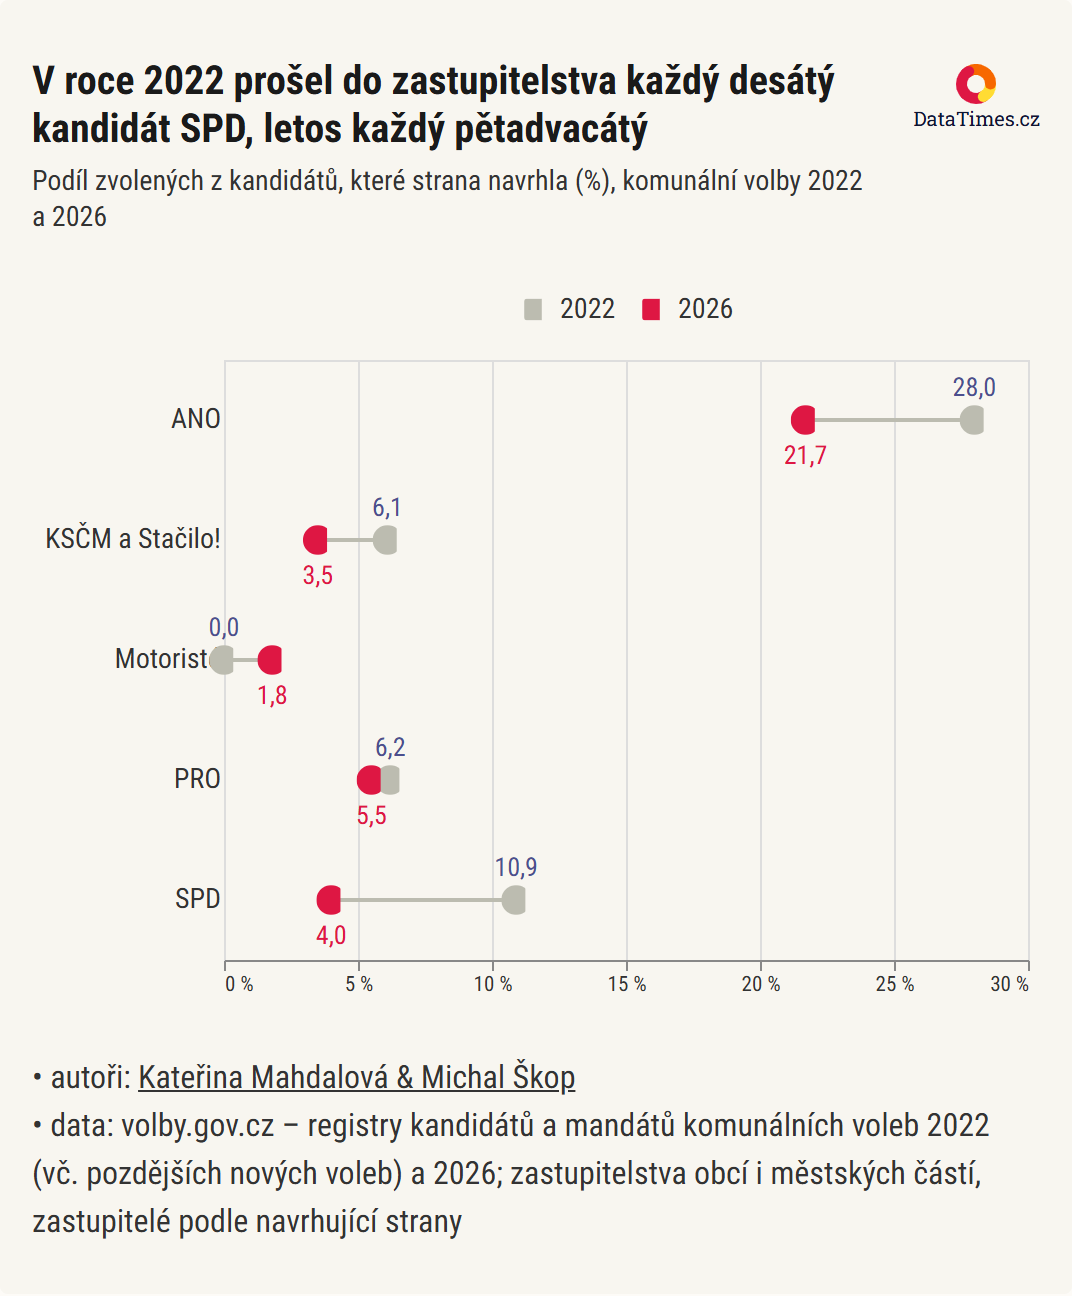
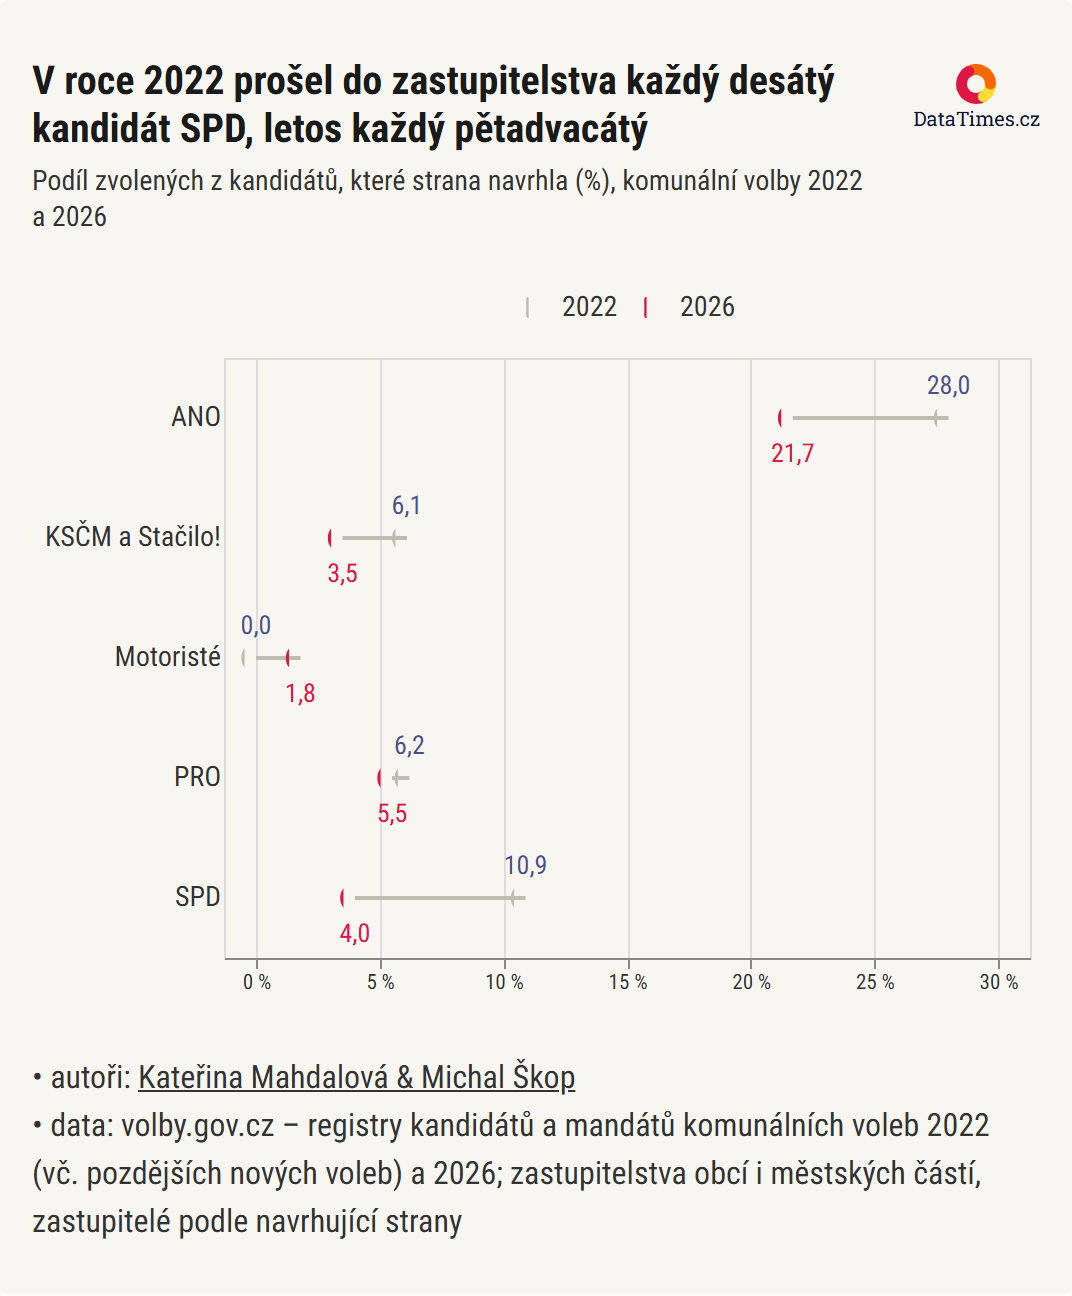
Článek o SPD v obcích: bonusové karty na sítě (grafy a krajská města ve stylu coveru), graf úspěšnosti bez překryvu u Motoristů

diff --git a/apps/web/app/clanek/_articles/volby-cr-2026-10-14-spd-ano-motoriste-v-obcich/_social/index.html b/apps/web/app/clanek/_articles/volby-cr-2026-10-14-spd-ano-motoriste-v-obcich/_social/index.html
@@ -35,7 +35,7 @@ ANO má o 6 % zastupitelů méně. Ve městech nad 10 000 obyvatel ztrácí (Ús
 KSČM a Stačilo! mají dohromady 123 zastupitelů. KSČM jich před volbami měla sama 466.
 
 Prošli jsme všech 6 394 zastupitelstev obcí a městských částí. V článku je mapa, ve které najdete i svou obec:
-https://www.mahdalova-skop.cz/clanek/volby-cr-2026-10-14-spd-ano-motoriste-v-obcich</pre><div class="row"><span class="meta">1088 znaků</span><button onclick="kopiruj(this)">Kopírovat</button></div></div></section><section><h2>Instagram – carousel 1080×1350</h2><p class="pozn">Pořadí snímků: 1 cover-instagram.png · 2 ano-ig.png · 3 spd-ig.png · 4 kss-ig.png · 5 aut-ig.png. Odkaz do bia.</p><div class="txt"><pre>SPD přišla v obcích o dvě třetiny zastupitelů: před volbami jich měla 490, teď 166. Motoristé z 1 116 kandidátů prosadili 20, z toho 12 v Ostravě. ANO ve velkých městech ztrácí, v menších obcích přibírá.
+https://www.mahdalova-skop.cz/clanek/volby-cr-2026-10-14-spd-ano-motoriste-v-obcich</pre><div class="row"><span class="meta">1088 znaků</span><button onclick="kopiruj(this)">Kopírovat</button></div></div></section><section><h2>Instagram – carousel 1080×1350</h2><p class="pozn">Pořadí snímků: 1 cover-instagram.png · 2 ano-ig.png · 3 spd-ig.png · 4 kss-ig.png · 5 aut-ig.png, případně 6 karta-mesta-ig.png (krajská města). Odkaz do bia.</p><div class="txt"><pre>SPD přišla v obcích o dvě třetiny zastupitelů: před volbami jich měla 490, teď 166. Motoristé z 1 116 kandidátů prosadili 20, z toho 12 v Ostravě. ANO ve velkých městech ztrácí, v menších obcích přibírá.
 
 Rok po sněmovních volbách jsme prošli všech 6 394 zastupitelstev obcí a městských částí. Na mapách je každá tečka obec: plná znamená, že tam strana má zastupitele, prázdný kroužek, že o všechny přišla (u Motoristů, že kandidovali a nikdo neprošel).
 
@@ -64,7 +64,7 @@ https://www.mahdalova-skop.cz/clanek/volby-cr-2026-10-14-spd-ano-motoriste-v-obc
 <h2>Tagy</h2>
 <p class="pozn">Účty jsme ověřili přes odkazy na oficiálních webech stran a měst 15. 10. 2026. Neověřené jsou označené červeně.</p>
 <table><tr><td><strong>SPD</strong></td><td>Facebook</td><td><code>facebook.com/hnutispd</code></td><td class="ok">ověřeno (odkaz z spd.cz)</td></tr><tr><td><strong>SPD</strong></td><td>X</td><td><code>@tomio_cz</code></td><td class="warn">web SPD odkazuje na osobní účet předsedy, ne strany</td></tr><tr><td><strong>SPD</strong></td><td>Instagram</td><td><code>@tomio.cz</code></td><td class="warn">web SPD odkazuje na osobní účet předsedy, ne strany</td></tr><tr><td><strong>Motoristé sobě</strong></td><td>Facebook</td><td><code>facebook.com/motoristesobe</code></td><td class="ok">ověřeno (odkaz z motoristesobe.cz)</td></tr><tr><td><strong>Motoristé sobě</strong></td><td>Instagram</td><td><code>@motoristesobe</code></td><td class="ok">ověřeno (odkaz z motoristesobe.cz)</td></tr><tr><td><strong>Motoristé sobě</strong></td><td>X</td><td><code>@petr_macinka</code></td><td class="warn">web strany odkazuje na osobní účet, ne strany</td></tr><tr><td><strong>ANO</strong></td><td>Facebook</td><td><code>facebook.com/anobudelip</code></td><td class="warn">NEOVĚŘENO – web anobudelip.cz nás nepustil (403), účet jen podle starších zdrojů</td></tr><tr><td><strong>KSČM</strong></td><td>Facebook</td><td><code>facebook.com/komunistickastranacechamoravy</code></td><td class="ok">ověřeno (odkaz z kscm.cz)</td></tr><tr><td><strong>KSČM</strong></td><td>Instagram</td><td><code>@czkscm</code></td><td class="ok">ověřeno (odkaz z kscm.cz)</td></tr><tr><td><strong>Stačilo!</strong></td><td>Facebook</td><td><code>facebook.com/stacilo.cz</code></td><td class="ok">ověřeno (odkaz z stacilo.cz)</td></tr><tr><td><strong>Stačilo!</strong></td><td>X</td><td><code>@hnuti_stacilo</code></td><td class="ok">ověřeno (odkaz z stacilo.cz)</td></tr><tr><td><strong>PRO</strong></td><td>Facebook</td><td><code>facebook.com/stranaPRO</code></td><td class="ok">ověřeno (odkaz z stranapro.cz)</td></tr><tr><td><strong>PRO</strong></td><td>X</td><td><code>@strana_pro</code></td><td class="ok">ověřeno (odkaz z stranapro.cz)</td></tr><tr><td><strong>PRO</strong></td><td>Instagram</td><td><code>@strana_pro</code></td><td class="ok">ověřeno (odkaz z stranapro.cz)</td></tr><tr><td><strong>Město Ostrava</strong></td><td>Facebook</td><td><code>facebook.com/mesto.ostrava</code></td><td class="ok">ověřeno (odkaz z ostrava.cz)</td></tr><tr><td><strong>Město Ostrava</strong></td><td>X</td><td><code>@ostrava_cz</code></td><td class="ok">ověřeno (odkaz z ostrava.cz)</td></tr><tr><td><strong>Město Ostrava</strong></td><td>Instagram</td><td><code>@ostrava_oficialni</code></td><td class="ok">ověřeno (odkaz z ostrava.cz)</td></tr></table>
-<section><h2>Covery</h2><div class="grid"><figure><a href="../images/cover-og.jpg" download><img src="../images/cover-og.jpg" alt="OG 1200×630 – náhled odkazu (FB, X, Bluesky, Lidé.cz)" loading="lazy"></a><figcaption>OG 1200×630 – náhled odkazu (FB, X, Bluesky, Lidé.cz) · <a href="../images/cover-og.jpg" download>stáhnout</a></figcaption></figure><figure><a href="../images/cover-square.png" download><img src="../images/cover-square.png" alt="čtverec 1080×1080" loading="lazy"></a><figcaption>čtverec 1080×1080 · <a href="../images/cover-square.png" download>stáhnout</a></figcaption></figure><figure><a href="../images/cover-instagram.png" download><img src="../images/cover-instagram.png" alt="Instagram 1080×1350 – 1. snímek carouselu" loading="lazy"></a><figcaption>Instagram 1080×1350 – 1. snímek carouselu · <a href="../images/cover-instagram.png" download>stáhnout</a></figcaption></figure><figure><a href="../images/cover-story.png" download><img src="../images/cover-story.png" alt="stories 1080×1920" loading="lazy"></a><figcaption>stories 1080×1920 · <a href="../images/cover-story.png" download>stáhnout</a></figcaption></figure></div></section><section><h2>Mapy stran – Instagram 1080×1350</h2><div class="grid"><figure><a href="ano-ig.png" download><img src="ano-ig.png" alt="ANO" loading="lazy"></a><figcaption>ANO · <a href="ano-ig.png" download>stáhnout</a></figcaption></figure><figure><a href="spd-ig.png" download><img src="spd-ig.png" alt="SPD" loading="lazy"></a><figcaption>SPD · <a href="spd-ig.png" download>stáhnout</a></figcaption></figure><figure><a href="kss-ig.png" download><img src="kss-ig.png" alt="KSČM a Stačilo!" loading="lazy"></a><figcaption>KSČM a Stačilo! · <a href="kss-ig.png" download>stáhnout</a></figcaption></figure><figure><a href="aut-ig.png" download><img src="aut-ig.png" alt="Motoristé" loading="lazy"></a><figcaption>Motoristé · <a href="aut-ig.png" download>stáhnout</a></figcaption></figure></div></section><section><h2>Mapy stran – stories 1080×1920</h2><div class="grid"><figure><a href="ano-story.png" download><img src="ano-story.png" alt="ANO" loading="lazy"></a><figcaption>ANO · <a href="ano-story.png" download>stáhnout</a></figcaption></figure><figure><a href="spd-story.png" download><img src="spd-story.png" alt="SPD" loading="lazy"></a><figcaption>SPD · <a href="spd-story.png" download>stáhnout</a></figcaption></figure><figure><a href="kss-story.png" download><img src="kss-story.png" alt="KSČM a Stačilo!" loading="lazy"></a><figcaption>KSČM a Stačilo! · <a href="kss-story.png" download>stáhnout</a></figcaption></figure><figure><a href="aut-story.png" download><img src="aut-story.png" alt="Motoristé" loading="lazy"></a><figcaption>Motoristé · <a href="aut-story.png" download>stáhnout</a></figcaption></figure></div></section><section><h2>Mapy stran – čtverec 1080×1080 (X, Bluesky, Facebook)</h2><div class="grid"><figure><a href="../images/mapa-ano.png" download><img src="../images/mapa-ano.png" alt="ANO" loading="lazy"></a><figcaption>ANO · <a href="../images/mapa-ano.png" download>stáhnout</a></figcaption></figure><figure><a href="../images/mapa-spd.png" download><img src="../images/mapa-spd.png" alt="SPD" loading="lazy"></a><figcaption>SPD · <a href="../images/mapa-spd.png" download>stáhnout</a></figcaption></figure><figure><a href="../images/mapa-kss.png" download><img src="../images/mapa-kss.png" alt="KSČM a Stačilo!" loading="lazy"></a><figcaption>KSČM a Stačilo! · <a href="../images/mapa-kss.png" download>stáhnout</a></figcaption></figure><figure><a href="../images/mapa-aut.png" download><img src="../images/mapa-aut.png" alt="Motoristé" loading="lazy"></a><figcaption>Motoristé · <a href="../images/mapa-aut.png" download>stáhnout</a></figcaption></figure><figure><a href="../images/mapa-pro.png" download><img src="../images/mapa-pro.png" alt="PRO" loading="lazy"></a><figcaption>PRO · <a href="../images/mapa-pro.png" download>stáhnout</a></figcaption></figure></div></section><section><h2>Animované GIFy volby 2022 → 2026</h2><div class="grid"><figure><a href="ano-2022-2026.gif" download><img src="ano-2022-2026.gif" alt="ANO" loading="lazy"></a><figcaption>ANO · <a href="ano-2022-2026.gif" download>stáhnout</a></figcaption></figure><figure><a href="spd-2022-2026.gif" download><img src="spd-2022-2026.gif" alt="SPD" loading="lazy"></a><figcaption>SPD · <a href="spd-2022-2026.gif" download>stáhnout</a></figcaption></figure><figure><a href="kss-2022-2026.gif" download><img src="kss-2022-2026.gif" alt="KSČM a Stačilo!" loading="lazy"></a><figcaption>KSČM a Stačilo! · <a href="kss-2022-2026.gif" download>stáhnout</a></figcaption></figure></div></section><section><h2>Grafy z článku</h2><div class="grid"><figure><a href="graf-uspesnost.png" download><img src="graf-uspesnost.png" alt="Úspěšnost kandidátů 2022 a 2026" loading="lazy"></a><figcaption>Úspěšnost kandidátů 2022 a 2026 · <a href="graf-uspesnost.png" download>stáhnout</a></figcaption></figure><figure><a href="graf-velikost.png" download><img src="graf-velikost.png" alt="Změna podle velikosti obce" loading="lazy"></a><figcaption>Změna podle velikosti obce · <a href="graf-velikost.png" download>stáhnout</a></figcaption></figure></div></section>
+<section><h2>Covery</h2><div class="grid"><figure><a href="../images/cover-og.jpg" download><img src="../images/cover-og.jpg" alt="OG 1200×630 – náhled odkazu (FB, X, Bluesky, Lidé.cz)" loading="lazy"></a><figcaption>OG 1200×630 – náhled odkazu (FB, X, Bluesky, Lidé.cz) · <a href="../images/cover-og.jpg" download>stáhnout</a></figcaption></figure><figure><a href="../images/cover-square.png" download><img src="../images/cover-square.png" alt="čtverec 1080×1080" loading="lazy"></a><figcaption>čtverec 1080×1080 · <a href="../images/cover-square.png" download>stáhnout</a></figcaption></figure><figure><a href="../images/cover-instagram.png" download><img src="../images/cover-instagram.png" alt="Instagram 1080×1350 – 1. snímek carouselu" loading="lazy"></a><figcaption>Instagram 1080×1350 – 1. snímek carouselu · <a href="../images/cover-instagram.png" download>stáhnout</a></figcaption></figure><figure><a href="../images/cover-story.png" download><img src="../images/cover-story.png" alt="stories 1080×1920" loading="lazy"></a><figcaption>stories 1080×1920 · <a href="../images/cover-story.png" download>stáhnout</a></figcaption></figure></div></section><section><h2>Mapy stran – Instagram 1080×1350</h2><div class="grid"><figure><a href="ano-ig.png" download><img src="ano-ig.png" alt="ANO" loading="lazy"></a><figcaption>ANO · <a href="ano-ig.png" download>stáhnout</a></figcaption></figure><figure><a href="spd-ig.png" download><img src="spd-ig.png" alt="SPD" loading="lazy"></a><figcaption>SPD · <a href="spd-ig.png" download>stáhnout</a></figcaption></figure><figure><a href="kss-ig.png" download><img src="kss-ig.png" alt="KSČM a Stačilo!" loading="lazy"></a><figcaption>KSČM a Stačilo! · <a href="kss-ig.png" download>stáhnout</a></figcaption></figure><figure><a href="aut-ig.png" download><img src="aut-ig.png" alt="Motoristé" loading="lazy"></a><figcaption>Motoristé · <a href="aut-ig.png" download>stáhnout</a></figcaption></figure></div></section><section><h2>Mapy stran – stories 1080×1920</h2><div class="grid"><figure><a href="ano-story.png" download><img src="ano-story.png" alt="ANO" loading="lazy"></a><figcaption>ANO · <a href="ano-story.png" download>stáhnout</a></figcaption></figure><figure><a href="spd-story.png" download><img src="spd-story.png" alt="SPD" loading="lazy"></a><figcaption>SPD · <a href="spd-story.png" download>stáhnout</a></figcaption></figure><figure><a href="kss-story.png" download><img src="kss-story.png" alt="KSČM a Stačilo!" loading="lazy"></a><figcaption>KSČM a Stačilo! · <a href="kss-story.png" download>stáhnout</a></figcaption></figure><figure><a href="aut-story.png" download><img src="aut-story.png" alt="Motoristé" loading="lazy"></a><figcaption>Motoristé · <a href="aut-story.png" download>stáhnout</a></figcaption></figure></div></section><section><h2>Mapy stran – čtverec 1080×1080 (X, Bluesky, Facebook)</h2><div class="grid"><figure><a href="../images/mapa-ano.png" download><img src="../images/mapa-ano.png" alt="ANO" loading="lazy"></a><figcaption>ANO · <a href="../images/mapa-ano.png" download>stáhnout</a></figcaption></figure><figure><a href="../images/mapa-spd.png" download><img src="../images/mapa-spd.png" alt="SPD" loading="lazy"></a><figcaption>SPD · <a href="../images/mapa-spd.png" download>stáhnout</a></figcaption></figure><figure><a href="../images/mapa-kss.png" download><img src="../images/mapa-kss.png" alt="KSČM a Stačilo!" loading="lazy"></a><figcaption>KSČM a Stačilo! · <a href="../images/mapa-kss.png" download>stáhnout</a></figcaption></figure><figure><a href="../images/mapa-aut.png" download><img src="../images/mapa-aut.png" alt="Motoristé" loading="lazy"></a><figcaption>Motoristé · <a href="../images/mapa-aut.png" download>stáhnout</a></figcaption></figure><figure><a href="../images/mapa-pro.png" download><img src="../images/mapa-pro.png" alt="PRO" loading="lazy"></a><figcaption>PRO · <a href="../images/mapa-pro.png" download>stáhnout</a></figcaption></figure></div></section><section><h2>Animované GIFy volby 2022 → 2026</h2><div class="grid"><figure><a href="ano-2022-2026.gif" download><img src="ano-2022-2026.gif" alt="ANO" loading="lazy"></a><figcaption>ANO · <a href="ano-2022-2026.gif" download>stáhnout</a></figcaption></figure><figure><a href="spd-2022-2026.gif" download><img src="spd-2022-2026.gif" alt="SPD" loading="lazy"></a><figcaption>SPD · <a href="spd-2022-2026.gif" download>stáhnout</a></figcaption></figure><figure><a href="kss-2022-2026.gif" download><img src="kss-2022-2026.gif" alt="KSČM a Stačilo!" loading="lazy"></a><figcaption>KSČM a Stačilo! · <a href="kss-2022-2026.gif" download>stáhnout</a></figcaption></figure></div></section><section><h2>Bonusové karty – Instagram 1080×1350 (můžou jít i do carouselu za mapy)</h2><div class="grid"><figure><a href="karta-mesta-ig.png" download><img src="karta-mesta-ig.png" alt="Krajská města: SPD zmizela z Prahy a šesti krajských měst" loading="lazy"></a><figcaption>Krajská města: SPD zmizela z Prahy a šesti krajských měst · <a href="karta-mesta-ig.png" download>stáhnout</a></figcaption></figure><figure><a href="karta-uspesnost-ig.png" download><img src="karta-uspesnost-ig.png" alt="Úspěšnost kandidátů 2022 a 2026" loading="lazy"></a><figcaption>Úspěšnost kandidátů 2022 a 2026 · <a href="karta-uspesnost-ig.png" download>stáhnout</a></figcaption></figure><figure><a href="karta-velikost-ig.png" download><img src="karta-velikost-ig.png" alt="ANO ve městech ztrácí, v menších obcích přibírá" loading="lazy"></a><figcaption>ANO ve městech ztrácí, v menších obcích přibírá · <a href="karta-velikost-ig.png" download>stáhnout</a></figcaption></figure></div></section><section><h2>Bonusové karty – čtverec 1080×1080</h2><div class="grid"><figure><a href="karta-mesta-ctverec.png" download><img src="karta-mesta-ctverec.png" alt="Krajská města" loading="lazy"></a><figcaption>Krajská města · <a href="karta-mesta-ctverec.png" download>stáhnout</a></figcaption></figure><figure><a href="karta-uspesnost-ctverec.png" download><img src="karta-uspesnost-ctverec.png" alt="Úspěšnost kandidátů" loading="lazy"></a><figcaption>Úspěšnost kandidátů · <a href="karta-uspesnost-ctverec.png" download>stáhnout</a></figcaption></figure><figure><a href="karta-velikost-ctverec.png" download><img src="karta-velikost-ctverec.png" alt="Podle velikosti obce" loading="lazy"></a><figcaption>Podle velikosti obce · <a href="karta-velikost-ctverec.png" download>stáhnout</a></figcaption></figure></div></section><section><h2>Bonusové karty – široké 1200×675 (X, Bluesky, Facebook, LinkedIn)</h2><div class="grid"><figure><a href="karta-mesta-siroky.png" download><img src="karta-mesta-siroky.png" alt="Krajská města" loading="lazy"></a><figcaption>Krajská města · <a href="karta-mesta-siroky.png" download>stáhnout</a></figcaption></figure><figure><a href="karta-uspesnost-siroky.png" download><img src="karta-uspesnost-siroky.png" alt="Úspěšnost kandidátů" loading="lazy"></a><figcaption>Úspěšnost kandidátů · <a href="karta-uspesnost-siroky.png" download>stáhnout</a></figcaption></figure><figure><a href="karta-velikost-siroky.png" download><img src="karta-velikost-siroky.png" alt="Podle velikosti obce" loading="lazy"></a><figcaption>Podle velikosti obce · <a href="karta-velikost-siroky.png" download>stáhnout</a></figcaption></figure></div></section><section><h2>Grafy z článku</h2><div class="grid"><figure><a href="graf-uspesnost.png" download><img src="graf-uspesnost.png" alt="Úspěšnost kandidátů 2022 a 2026" loading="lazy"></a><figcaption>Úspěšnost kandidátů 2022 a 2026 · <a href="graf-uspesnost.png" download>stáhnout</a></figcaption></figure><figure><a href="graf-velikost.png" download><img src="graf-velikost.png" alt="Změna podle velikosti obce" loading="lazy"></a><figcaption>Změna podle velikosti obce · <a href="graf-velikost.png" download>stáhnout</a></figcaption></figure></div></section>
 </main>
 <script>
 function kopiruj(btn) {

diff --git a/apps/web/app/clanek/_articles/volby-cr-2026-10-14-spd-ano-motoriste-v-obcich/_cover_pipeline/social_stranka.py b/apps/web/app/clanek/_articles/volby-cr-2026-10-14-spd-ano-motoriste-v-obcich/_cover_pipeline/social_stranka.py
@@ -26,6 +26,16 @@ OBRAZKY = [
         [('ano', 'ANO'), ('spd', 'SPD'), ('kss', 'KSČM a Stačilo!'), ('aut', 'Motoristé'), ('pro', 'PRO')]]),
     ('Animované GIFy volby 2022 → 2026', [(f'{k}-2022-2026.gif', n) for k, n in
         [('ano', 'ANO'), ('spd', 'SPD'), ('kss', 'KSČM a Stačilo!')]]),
+    ('Bonusové karty – Instagram 1080×1350 (můžou jít i do carouselu za mapy)', [
+        ('karta-mesta-ig.png', 'Krajská města: SPD zmizela z Prahy a šesti krajských měst'),
+        ('karta-uspesnost-ig.png', 'Úspěšnost kandidátů 2022 a 2026'),
+        ('karta-velikost-ig.png', 'ANO ve městech ztrácí, v menších obcích přibírá')]),
+    ('Bonusové karty – čtverec 1080×1080', [
+        ('karta-mesta-ctverec.png', 'Krajská města'), ('karta-uspesnost-ctverec.png', 'Úspěšnost kandidátů'),
+        ('karta-velikost-ctverec.png', 'Podle velikosti obce')]),
+    ('Bonusové karty – široké 1200×675 (X, Bluesky, Facebook, LinkedIn)', [
+        ('karta-mesta-siroky.png', 'Krajská města'), ('karta-uspesnost-siroky.png', 'Úspěšnost kandidátů'),
+        ('karta-velikost-siroky.png', 'Podle velikosti obce')]),
     ('Grafy z článku', [('graf-uspesnost.png', 'Úspěšnost kandidátů 2022 a 2026'),
                         ('graf-velikost.png', 'Změna podle velikosti obce')]),
 ]

diff --git a/apps/web/app/clanek/_articles/volby-cr-2026-10-14-spd-ano-motoriste-v-obcich/_data_pipeline/build.py b/apps/web/app/clanek/_articles/volby-cr-2026-10-14-spd-ano-motoriste-v-obcich/_data_pipeline/build.py
@@ -319,7 +319,7 @@ spec('graf_uspesnost.json', {
          'encoding': {
              'y': {'field': 'strana', 'type': 'nominal', 'sort': ['ANO', 'PRO', 'KSČM a Stačilo!', 'SPD', 'Motoristé'],
                    'axis': {'title': None, 'labelFontSize': 14, 'labelLimit': 200, 'domain': False, 'ticks': False}},
-             'x': {'field': 'pct', 'type': 'quantitative', 'scale': {'domain': [0, 30]},
+             'x': {'field': 'pct', 'type': 'quantitative', 'scale': {'domain': [0, 30], 'padding': 16, 'nice': False},
                    'axis': {'title': None, 'labelExpr': "datum.label + ' %'", 'tickCount': 6}},
              'color': {'field': 'rok', 'type': 'nominal', 'scale': {'domain': ['2022', '2026'], 'range': [SEDA, '#de1743']},
                        'legend': {'title': None, 'orient': 'top'}},
